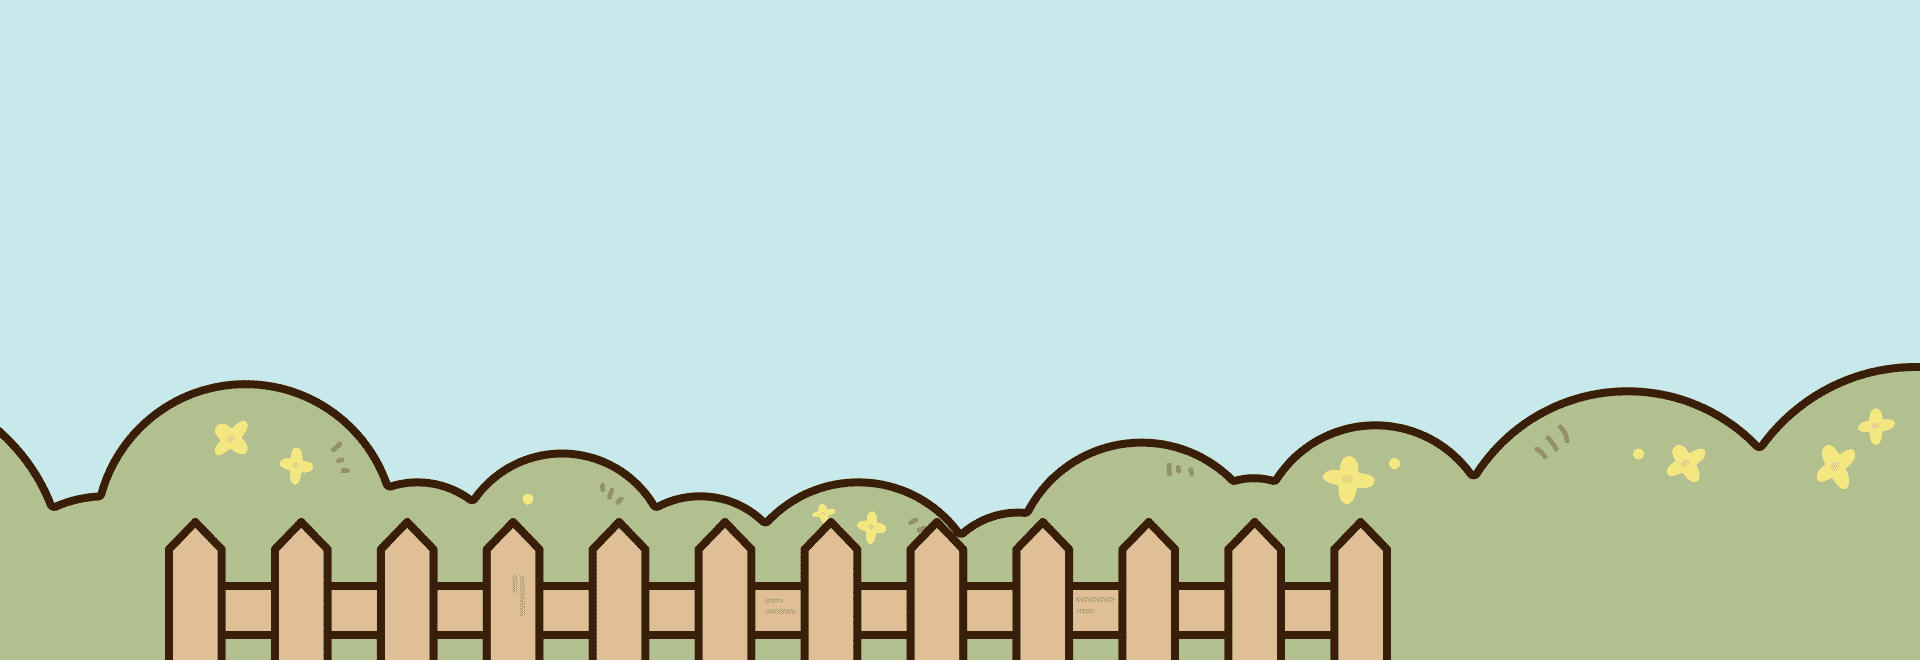
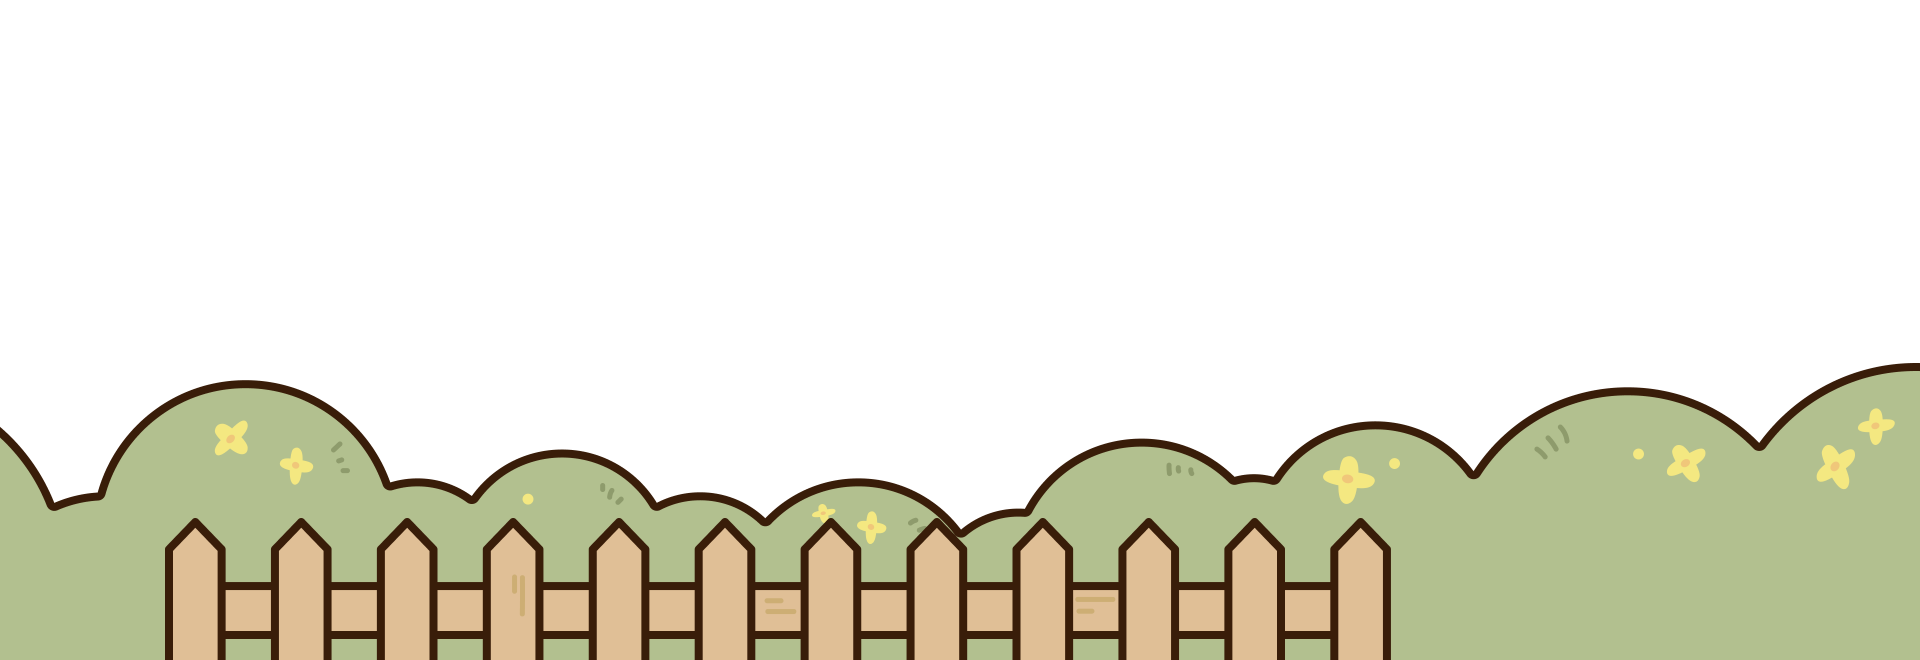
chore: cloud after grass

diff --git a/src/views/home/index.vue b/src/views/home/index.vue
@@ -6,7 +6,7 @@ import useImage from '@/hooks/useImage.js'
 import { getImageUrl } from '@/utils/index.js'
 
 const cloud = useImage('bg_cloud', 4)
-const grass = useImage(['bg_grass1', 'bg_grass2', 'bg_grass3', 'bg_mailbox', 'bg_ball'])
+const grass = useImage(['bg01', 'bg_grass1', 'bg_grass2', 'bg_grass3', 'bg_mailbox', 'bg_ball'])
 </script>
 
 <template>
@@ -42,7 +42,7 @@ const grass = useImage(['bg_grass1', 'bg_grass2', 'bg_grass3', 'bg_mailbox', 'bg
   position: relative;
   z-index: 2;
   height: 660px;
-  background-image: url("@/assets/images/bg01.png");
+  //background-image: url("@/assets/images/bg01.png");
   background-repeat: no-repeat;
   background-position: center bottom;
   background-size: contain;
@@ -123,6 +123,7 @@ const grass = useImage(['bg_grass1', 'bg_grass2', 'bg_grass3', 'bg_mailbox', 'bg
     width: 299px;
     top: 89px;
     right: 255px;
+    z-index: -1;
   }
 
   .bg_cloud4 {
@@ -144,8 +145,15 @@ const grass = useImage(['bg_grass1', 'bg_grass2', 'bg_grass3', 'bg_mailbox', 'bg
   position: absolute;
   bottom: 33px;
 
+  .bg01 {
+    width: 100%;
+    position: absolute;
+    bottom: -33px;
+  }
+
   .bg_grass2 {
     width: 100%;
+    position: absolute;
   }
 
   .bg_grass1 {
